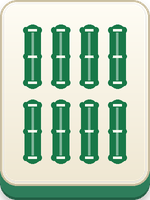
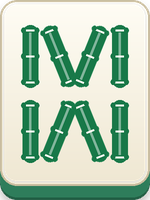
fix: 8 條改為傳統的 M 字排法（上 M 下倒 M）
Claude-Session: https://claude.ai/code/session_01FkaSKsoHVMd3gT73nEjQwJ

Changed region(s): [[0.1333, 0.48, 0.88, 0.84], [0.1333, 0.12, 0.88, 0.45]]

diff --git a/apps/manjong-unity/tools/render_tiles.py b/apps/manjong-unity/tools/render_tiles.py
@@ -199,9 +199,35 @@ def draw_bird(img):
         d.line([(cx + cw * dx, cy + ch * 0.36), (cx + cw * dx, cy + ch * 0.46)], fill=RED, width=int(4 * S))
 
 
+def tilted_stick(img, cx, cy, w, h, angle, color):
+    """Draw a stick on its own layer, rotate it (degrees, counter-clockwise) and composite it at (cx, cy)."""
+    size = int(max(w, h) * 1.6)
+    layer = Image.new("RGBA", (size, size), (0, 0, 0, 0))
+    stick(ImageDraw.Draw(layer), size / 2, size / 2, w, h, color)
+    layer = layer.rotate(angle, resample=Image.BICUBIC)
+    img.alpha_composite(layer, (int(cx - size / 2), int(cy - size / 2)))
+
+
+def draw_eight_bamboo(img):
+    """8條: the classic 'M' on top and an upside-down 'M' below (outer sticks upright, inner two leaning)."""
+    cw, ch = CX1 - CX0, CY1 - CY0
+    w = min(cw * 0.13, 20 * S)
+    h = ch * 0.40
+    for half, (cy_frac, sign) in enumerate(((0.26, 1), (0.74, -1))):
+        cy = CY0 + ch * cy_frac
+        tilted_stick(img, CX0 + cw * 0.12, cy, w, h, 0, GREEN)
+        tilted_stick(img, CX0 + cw * 0.88, cy, w, h, 0, GREEN)
+        # top half: inner sticks meet at the bottom (a 'V' inside the M); bottom half mirrors it
+        tilted_stick(img, CX0 + cw * 0.37, cy, w, h * 1.04, 22 * sign, GREEN)
+        tilted_stick(img, CX0 + cw * 0.63, cy, w, h * 1.04, -22 * sign, GREEN)
+
+
 def draw_sou(img, n):
     if n == 1:
         draw_bird(img)
+        return
+    if n == 8:
+        draw_eight_bamboo(img)
         return
     d = ImageDraw.Draw(img)
     cw, ch = CX1 - CX0, CY1 - CY0
